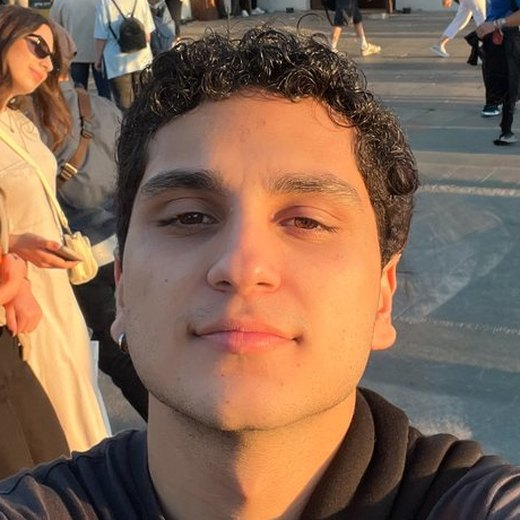
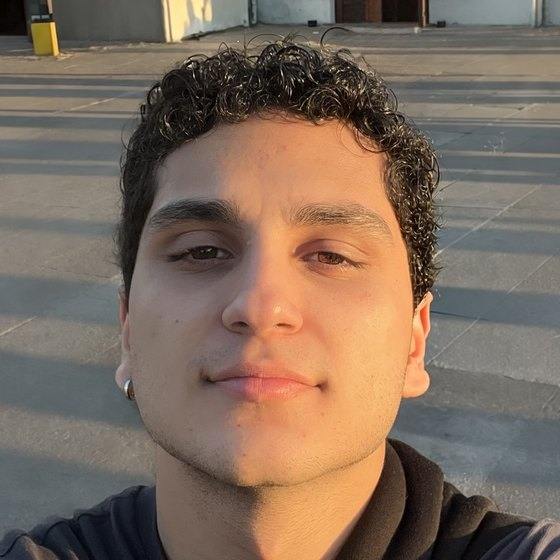
Update profile photo

diff --git a/index.html b/index.html
@@ -117,7 +117,7 @@
       background: var(--accent-soft); justify-self: end;
       box-shadow: 0 0 0 6px var(--paper), 0 0 0 7px var(--rule);
     }
-    .portrait img { width: 100%; height: 100%; object-fit: cover; object-position: 50% 40%; }
+    .portrait img { width: 100%; height: 100%; object-fit: cover; object-position: 50% 50%; }
 
     /* Active nav item */
     nav.primary a[aria-current="true"] { color: var(--ink); text-decoration: underline; text-decoration-color: var(--accent); text-decoration-thickness: 2px; text-underline-offset: 8px; }
@@ -335,7 +335,7 @@
           </div>
         </div>
         <div class="portrait">
-          <img src="assets/profile.jpg" alt="Portrait of Mert Can Kılıç" width="560" height="560" />
+          <img src="assets/profile.jpg?v=2" alt="Portrait of Mert Can Kılıç" width="560" height="560" />
         </div>
       </div>
 
